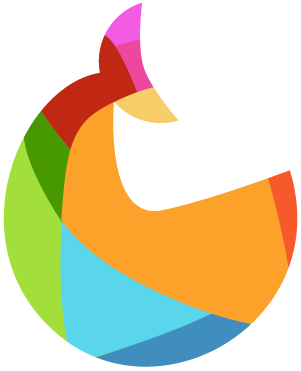
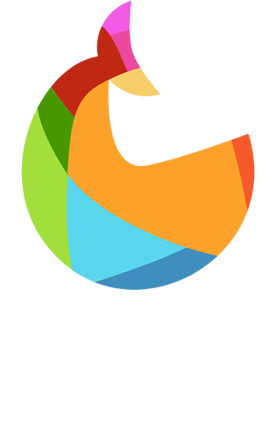
Add kraiom splash

diff --git a/src/js/states/About.js b/src/js/states/About.js
@@ -20,7 +20,7 @@ const text_style = {
   fontWeight: 100,
   fill: '#ffffff',
   wordWrap: true,
-  wordWrapWidth: 450
+  wordWrapWidth: 430
 }
 
 const button_style_over = {
@@ -54,28 +54,25 @@ export default class About {
     const cc = this.add.text(
       30,
       250,
-      `Assets licensed under Creative Commons: By Attribution 3.0 License (creativecommons.org/licenses/by/3.0/)
+      `Assets licensed under Creative Commons:
+      By Attribution 3.0 License (creativecommons.org/licenses/by/3.0/)
 
       - "Rhinoceros" Kevin MacLeod (incompetech.com)
       - "korgpoly800bs C6" patchen (freesound.org)
-      - "Mute Icon" and "Medium, volume icon" Visual Pharm (icons8.com)`,
+      - "Mute Icon" Visual Pharm (icons8.com)
+      - "Medium, volume icon" Visual Pharm (icons8.com)`,
       text_style
     )
 
-    const kraiomText = this.add.text(
-      610,
-      430,
-      'Kraiom © 2016',
+    this.add.text(
+      500,
+      250,
+      `Copyright © 2016
+
+      Breno Freitas (breno.io)
+      Eduardo Rocha (@romaoneles)`,
       button_style
     )
-
-    const kraiom = this.add.sprite(
-      650,
-      250,
-      'kraiom'
-    )
-
-    kraiom.scale.setTo(0.4)
 
     back.inputEnabled = true
     back.input.useHandCursor = true

diff --git a/src/js/world/World.js b/src/js/world/World.js
@@ -25,9 +25,7 @@ export default class World {
   }
 
   update () {
-    this.players.forEach(player => {
-      player.body.velocity.x = 0
-    })
+    this.players.forEach(player => player.body.velocity.x = 0)
 
     this.input.update()
   }
@@ -53,14 +51,8 @@ export default class World {
 
     this.main = (this.main + 1) % 2
 
-    this.players.forEach(player => {
-      player.swap()
-    })
-
-    this.rails.forEach(rail => {
-      rail.swap()
-    })
-
+    this.players.forEach(player => player.swap())
+    this.rails.forEach(rail => rail.swap())
     this.maze.swap()
   }
 }

diff --git a/src/js/states/Splash.js b/src/js/states/Splash.js
@@ -26,11 +26,10 @@ export default class Splash {
     this.tic = this.game.add.audio('tic')
     this.syncro = this.game.add.audio('syncro')
     this.tic.volume = 0.2
+    this.game.stage.backgroundColor = '#10101C'
   }
 
   create () {
-    this.syncro.play()
-
     this.title = this.add.text(
       this.game.world.centerX,
       this.game.world.centerY - 100,
@@ -113,5 +112,7 @@ export default class Splash {
     this.start.anchor.setTo(0.5)
     this.credits.anchor.setTo(0.5)
     this.tutorial.anchor.setTo(0.5)
+
+    this.syncro.play()
   }
 }

diff --git a/src/js/states/main.js b/src/js/states/main.js
@@ -4,6 +4,7 @@ import Preload from './Preload'
 import Boot from './Boot'
 import GameOver from './GameOver'
 import About from './About'
+import Kraiom from './Kraiom'
 
 const GAME_DATA = require('../../json/game')
 
@@ -23,6 +24,7 @@ window.GAME = function (handler) {
   game.state.add('game', Game)
   game.state.add('gameover', GameOver)
   game.state.add('about', About)
+  game.state.add('kraiom', Kraiom)
 
   game.state.start('boot', true, false, handler)
 }

diff --git a/src/js/states/Kraiom.js b/src/js/states/Kraiom.js
@@ -1,0 +1,15 @@
+export default class About {
+  create () {
+    this.game.stage.backgroundColor = '#2D4548'
+
+    const logo = this.add.sprite(
+      this.game.world.centerX,
+      this.game.world.centerY,
+      'kraiom'
+    )
+
+    logo.anchor.setTo(0.5)
+
+    setTimeout(() => this.state.start('splash', true, false), 3000)
+  }
+}

diff --git a/src/js/states/Preload.js b/src/js/states/Preload.js
@@ -25,7 +25,7 @@ export default class Preload {
   }
 
   create () {
-    this.state.start('splash', true, false)
+    this.state.start('kraiom', true, false)
   }
 
   /*
